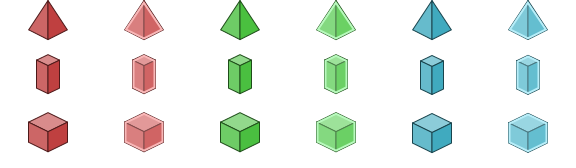
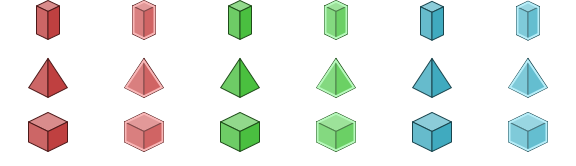
Update units data and sprite

diff --git a/src/GameObjects/ObjectsDataRegistry.cpp b/src/GameObjects/ObjectsDataRegistry.cpp
@@ -24,28 +24,28 @@ void ObjectsDataRegistry::InitUnits()
     // unit 1
     data1.emplace_back
     (
-        std::vector<int>{ 1, 2, 3, 4, 5, 6, 7, 8, 9, 9, 9 },
-        std::vector<int>{ 10, 10, 0, 0 },
+        std::vector<int>{ 4, 4, 1, 1, 1, 4, 2, 2, 5, 6, 6 },
+        std::vector<int>{ 15, 15, 0, 0 },
         SpriteFileUnits,
         SPR_UNIT_01_F1,
-        OCU_GENERIC
+        OCU_WORKER
     );
 
     // unit 2
     data1.emplace_back
     (
-        std::vector<int>{ 1, 4, 3, 2, 5, 6, 1, 8, 9, 9, 9 },
-        std::vector<int>{ 10, 10, 0, 0 },
+        std::vector<int>{ 4, 5, 5, 4, 5, 3, 3, 2, 6, 1, 4 },
+        std::vector<int>{ 20, 20, 0, 0 },
         SpriteFileUnits,
         SPR_UNIT_02_F1,
-        OCU_GENERIC
+        OCU_SOLDIER
     );
 
     // unit 3
     data1.emplace_back
     (
-        std::vector<int>{ 1, 3, 3, 4, 5, 1, 1, 8, 9, 2, 7 },
-        std::vector<int>{ 10, 10, 0, 0 },
+        std::vector<int>{ 6, 5, 2, 5, 3, 4, 5, 5, 3, 3, 4 },
+        std::vector<int>{ 40, 40, 0, 0 },
         SpriteFileUnits,
         SPR_UNIT_03_F1,
         OCU_GENERIC
@@ -57,28 +57,28 @@ void ObjectsDataRegistry::InitUnits()
     // unit 1
     data2.emplace_back
     (
-        std::vector<int>{ 1, 2, 3, 4, 1, 6, 7, 8, 1, 2, 3 },
-        std::vector<int>{ 10, 10, 0, 0 },
+        std::vector<int>{ 4, 4, 1, 1, 1, 4, 2, 2, 5, 6, 6 },
+        std::vector<int>{ 15, 15, 0, 0 },
         SpriteFileUnits,
         SPR_UNIT_01_F2,
-        OCU_GENERIC
+        OCU_WORKER
     );
 
     // unit 2
     data2.emplace_back
     (
-        std::vector<int>{ 1, 2, 9, 4, 5, 2, 7, 8, 9, 1, 2 },
-        std::vector<int>{ 10, 10, 0, 0 },
+        std::vector<int>{ 4, 5, 5, 4, 5, 3, 3, 2, 6, 1, 4 },
+        std::vector<int>{ 20, 20, 0, 0 },
         SpriteFileUnits,
         SPR_UNIT_02_F2,
-        OCU_GENERIC
+        OCU_SOLDIER
     );
 
     // unit 3
     data2.emplace_back
     (
-        std::vector<int>{ 1, 9, 3, 4, 2, 6, 7, 8, 1, 3, 5 },
-        std::vector<int>{ 10, 10, 0, 0 },
+        std::vector<int>{ 6, 5, 2, 5, 3, 4, 5, 5, 3, 3, 4 },
+        std::vector<int>{ 40, 40, 0, 0 },
         SpriteFileUnits,
         SPR_UNIT_03_F2,
         OCU_GENERIC
@@ -90,28 +90,28 @@ void ObjectsDataRegistry::InitUnits()
     // unit 1
     data3.emplace_back
     (
-        std::vector<int>{ 1, 2, 3, 4, 5, 6, 7, 8, 9, 9, 9 },
-        std::vector<int>{ 10, 10, 0, 0 },
+        std::vector<int>{ 4, 4, 1, 1, 1, 4, 2, 2, 5, 6, 6 },
+        std::vector<int>{ 15, 15, 0, 0 },
         SpriteFileUnits,
         SPR_UNIT_01_F3,
-        OCU_GENERIC
+        OCU_WORKER
     );
 
     // unit 2
     data3.emplace_back
     (
-        std::vector<int>{ 1, 2, 3, 4, 5, 6, 7, 8, 9, 9, 9 },
-        std::vector<int>{ 10, 10, 0, 0 },
+        std::vector<int>{ 4, 5, 5, 4, 5, 3, 3, 2, 6, 1, 4 },
+        std::vector<int>{ 20, 20, 0, 0 },
         SpriteFileUnits,
         SPR_UNIT_02_F3,
-        OCU_GENERIC
+        OCU_SOLDIER
     );
 
     // unit 3
     data3.emplace_back
     (
-        std::vector<int>{ 1, 2, 3, 4, 5, 6, 7, 8, 9, 9, 9 },
-        std::vector<int>{ 10, 10, 0, 0 },
+        std::vector<int>{ 6, 5, 2, 5, 3, 4, 5, 5, 3, 3, 4 },
+        std::vector<int>{ 40, 40, 0, 0 },
         SpriteFileUnits,
         SPR_UNIT_03_F3,
         OCU_GENERIC

diff --git a/src/Screens/ScreenGame.cpp b/src/Screens/ScreenGame.cpp
@@ -497,20 +497,20 @@ void ScreenGame::InitSprites()
     const std::vector<lib::core::Rectd> rectsUnits
     {
         // unit 1
-        { 0, 0, 96, 54 },
-        { 96, 0, 96, 54 },
-        { 192, 0, 96, 54 },
-        { 288, 0, 96, 54 },
-        { 384, 0, 96, 54 },
-        { 480, 0, 96, 54 },
+        { 0, 0, 96, 58 },
+        { 96, 0, 96, 58 },
+        { 192, 0, 96, 58 },
+        { 288, 0, 96, 58 },
+        { 384, 0, 96, 58 },
+        { 480, 0, 96, 58 },
 
         // unit 2
-        { 0, 54, 96, 58 },
-        { 96, 54, 96, 58 },
-        { 192, 54, 96, 58 },
-        { 288, 54, 96, 58 },
-        { 384, 54, 96, 58 },
-        { 480, 54, 96, 58 },
+        { 0, 58, 96, 54 },
+        { 96, 58, 96, 54 },
+        { 192, 58, 96, 54 },
+        { 288, 58, 96, 54 },
+        { 384, 58, 96, 54 },
+        { 480, 58, 96, 54 },
 
         // unit 3
         { 0, 112, 96, 54 },
